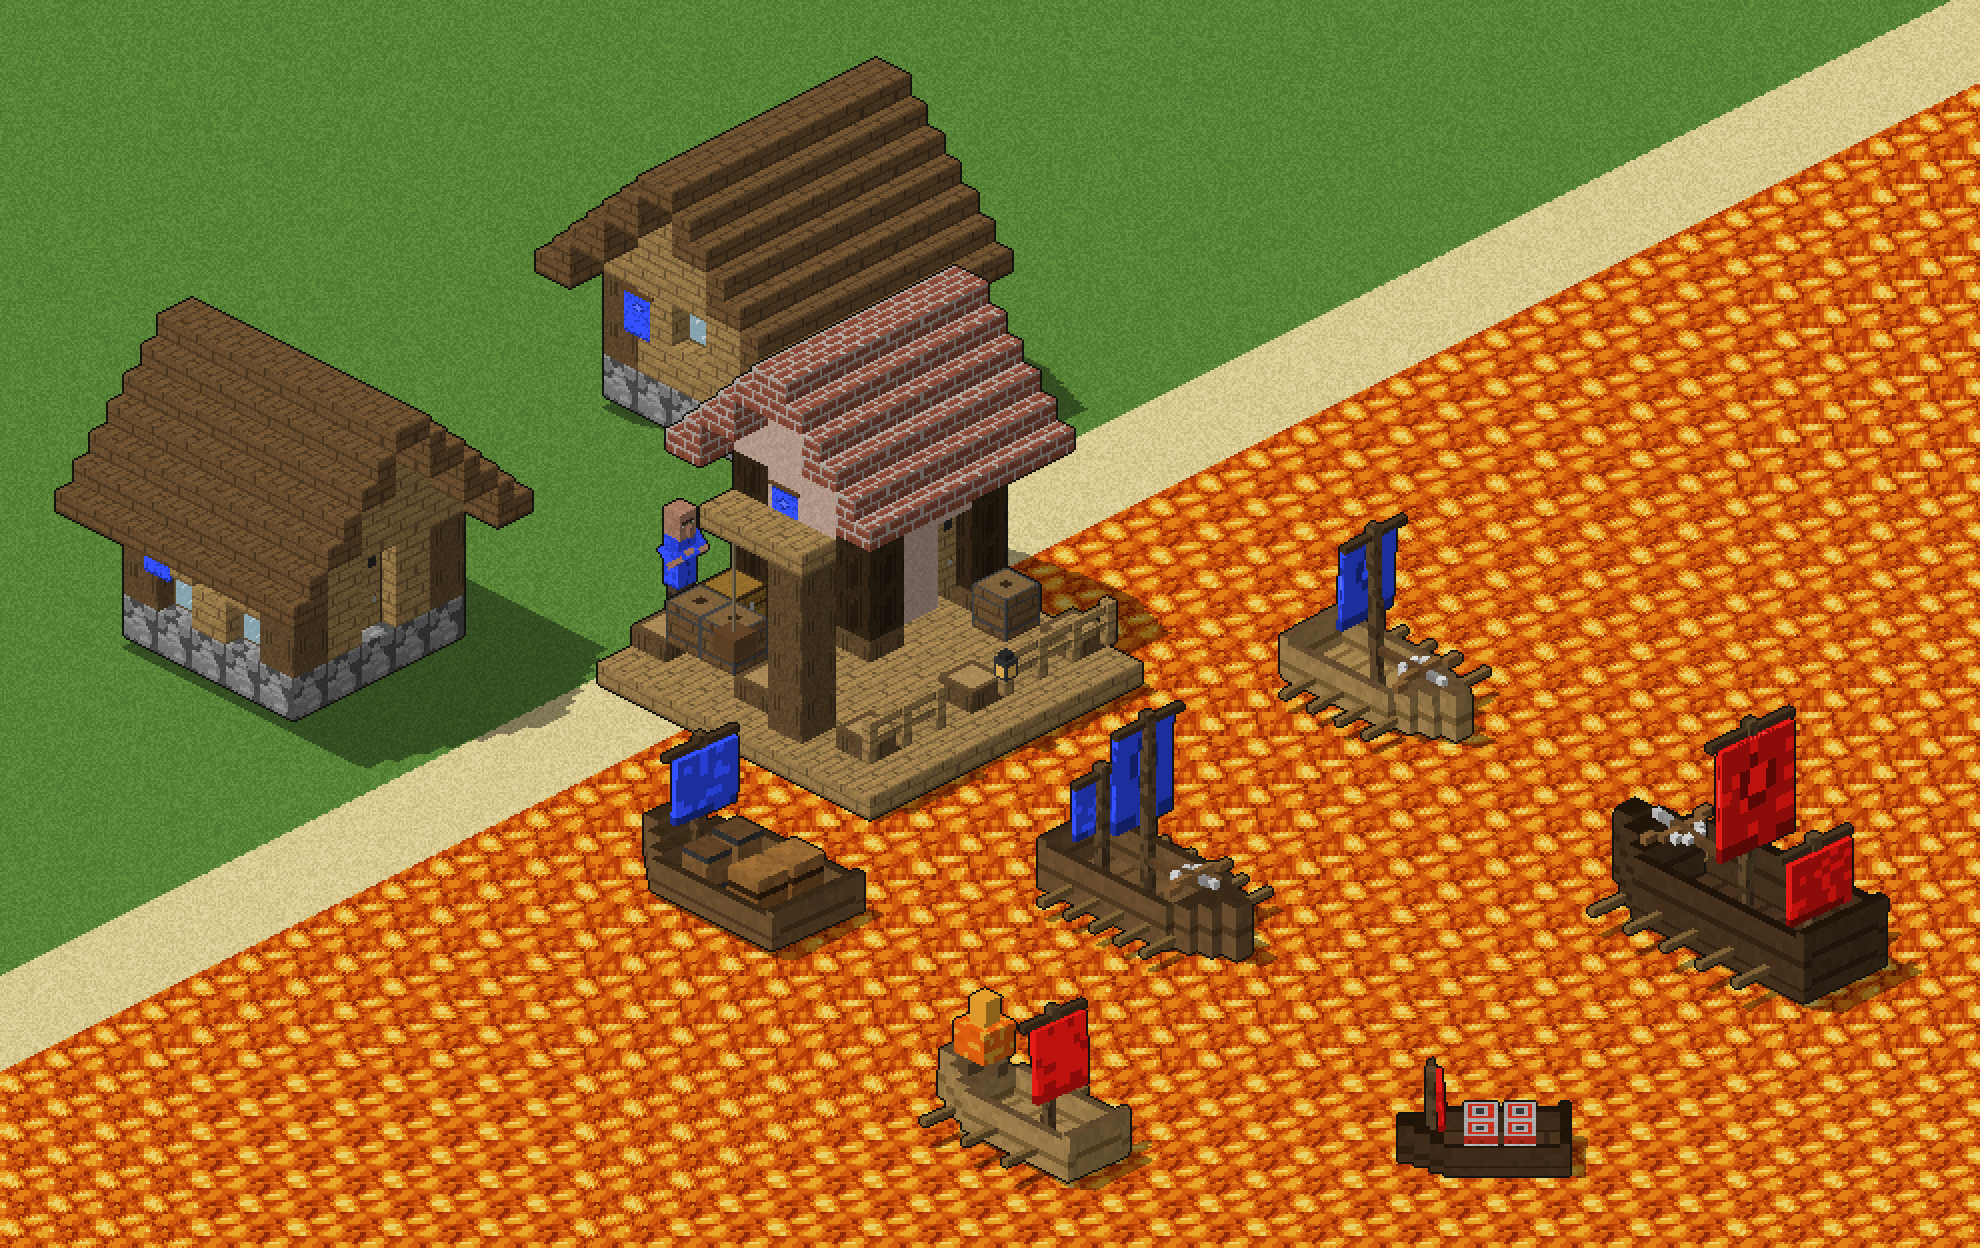
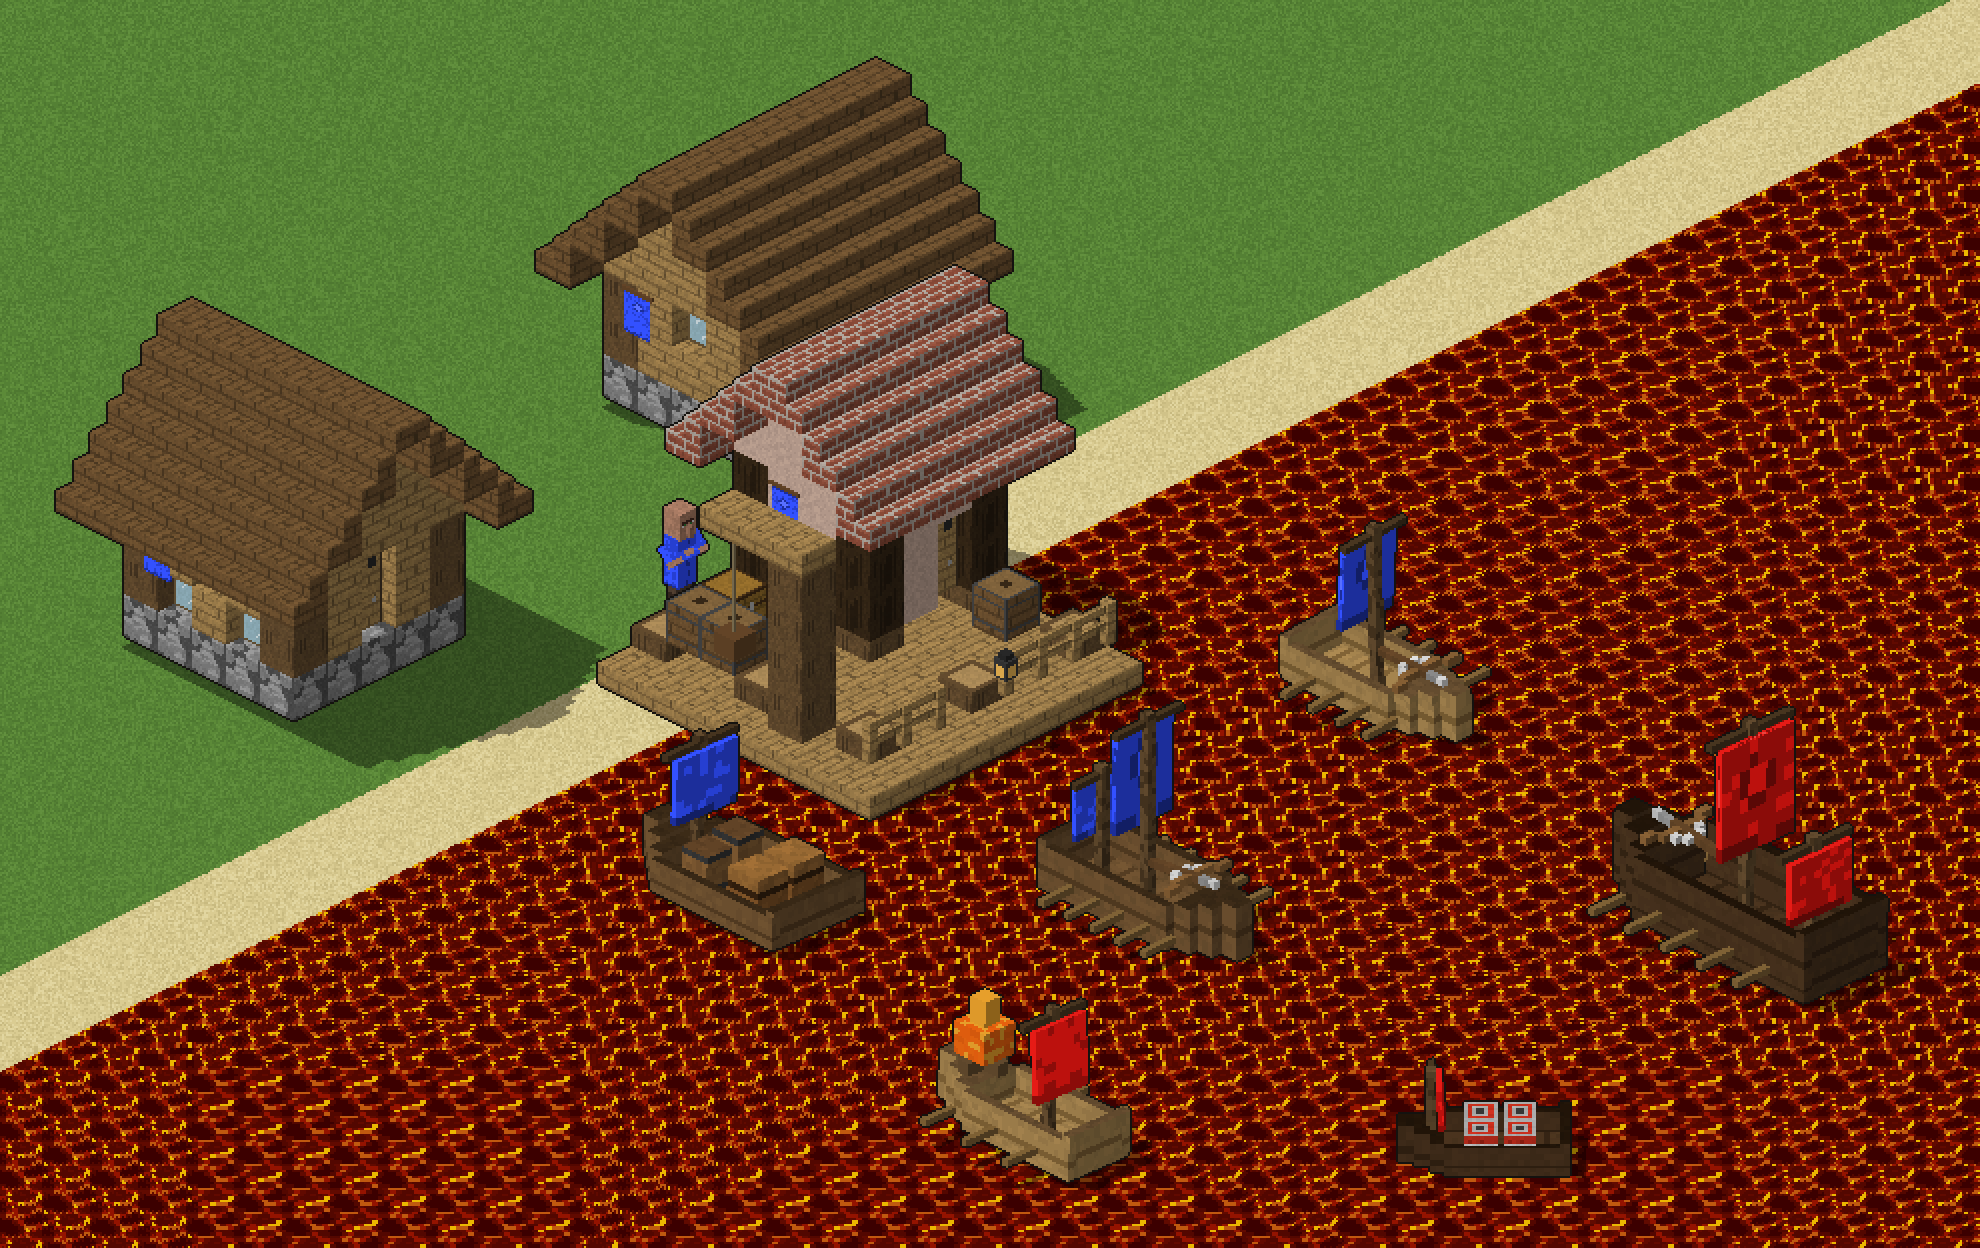
Make the lava darker: dark red crust with glowing cracks
The lava's bright orange and yellow blobs looked more like fire. It is now
plates of dark red crust with glowing cracks between them, orange round a
yellow-hot middle.

The game's palette has no red among its plain colours, so darker lava came
out brown. The texture now also uses the red and the yellow player's shades
as plain colours, as the giant red Pac-Man does: a plain pixel there keeps
its colour, and terrain has no owner anyway (Quantiser takes them as extra).
In the real build half the lava is the darkest red, (65, 0, 0).

diff --git a/tools/aom/lava.py b/tools/aom/lava.py
@@ -4,8 +4,11 @@ The game has no lava. Its terrain 15, "Old Water", is a leftover no map uses: it
 draws it with the Water's, `to_draw` 1), and every unit treats it exactly as it treats Water 3, the medium water:
 ships sail on it, fish and fish traps live in it, soldiers cannot walk on it. So it becomes the lava (`patch`):
 
-- its own texture, Minecraft's still lava (hot yellow blobs in orange, a darker crust between them), 2 blocks to a
-  tile like the farms, cut into the tile shapes of the Water's texture, which it was drawn with (`encode`);
+- its own texture, dark lava: plates of dark red crust with glowing cracks between them, orange round a yellow-hot
+  middle, 2 blocks to a tile like the farms, cut into the tile shapes of the Water's texture, which it was drawn with
+  (`encode`). The palette's plain colours have no red (they turn dark lava brown), so the red player's shades and the
+  yellow player's are used as plain colours too (`SHADES`), as the giant red Pac-Man's are: a plain pixel there keeps
+  its colour, and terrain has no owner anyway;
 - orange on the minimap, and blended into the ground around it the way the Water is;
 - Docks may be built on it. A Dock may only stand on Water or Shallows (its placement terrains) next to a beach,
   so its Shallows becomes the lava: no standard map has a Dock in shallow water (the fords are a tile wide).
@@ -37,7 +40,8 @@ from .textures import parse
 LAVA = 15  # "Old Water"
 MEDIUM_WATER = 23  # the terrain it must behave like
 WATER, SHALLOWS = 1, 4  # where a Dock may stand: (Water, Shallows) becomes (Water, lava)
-COLOURS = ("#9c2c08", "#c8420a", "#e2620e", "#f58a18", "#fdb52e", "#ffe070")  # crust to the hottest
+COLOURS = ("#410000", "#5a0800", "#690b00", "#a01500", "#d06010", "#ffc700")  # the crust, then a crack's glow
+SHADES = tuple(range(32, 40)) + tuple(range(64, 72))  # the red and the yellow player's colours, as plain colours
 MINIMAP = (226, 98, 14)
 MAP_NAME = "Team Lava Islands"
 MAP_FILE = MAP_NAME + ".rms"
@@ -46,20 +50,20 @@ MARK = "Age of Minecraft"  # in the map's first lines: --restore removes only a 
 
 # --------------------------------------------------------------------------- the look
 
-def lava_texture(seed: str = "lava", blobs: int = 6) -> np.ndarray:
-    """16x16 still lava: a hot blob round each of a few points, bright in the middle, a darker crust where blobs
-    meet. The distances wrap round the block's edges, so the blocks join up."""
+def lava_texture(seed: str = "lava", plates: int = 5) -> np.ndarray:
+    """16x16 lava: a plate of dark crust round each of a few points, cracked where plates meet, the cracks glowing red
+    to yellow-hot. The distances wrap round the block's edges, so the blocks join up."""
     rng = np.random.default_rng(zlib.crc32(seed.encode()))
-    points = rng.uniform(0, 16, (blobs, 2))
+    points = rng.uniform(0, 16, (plates, 2))
     yy, xx = np.mgrid[0:16, 0:16] + 0.5
     dist = []
     for py, px in points:
         dy, dx = np.abs(yy - py), np.abs(xx - px)
         dist.append(np.hypot(np.minimum(dy, 16 - dy), np.minimum(dx, 16 - dx)))
     near = np.sort(np.array(dist), axis=0)
-    edge = near[1] - near[0]  # 0 where two blobs meet
-    heat = (edge / edge.max()) ** 0.7 + rng.normal(0, 0.05, edge.shape)
-    return np.array([parse(c) for c in COLOURS])[np.digitize(heat, [0.1, 0.28, 0.48, 0.68, 0.86])]
+    edge = near[1] - near[0]  # 0 where two plates meet
+    heat = 1 - (edge / edge.max()) ** 0.6 + rng.normal(0, 0.06, edge.shape)  # 1 on the cracks
+    return np.array([parse(c) for c in COLOURS])[np.digitize(heat, [0.35, 0.55, 0.7, 0.8, 0.9])]
 
 
 @lru_cache(maxsize=None)
@@ -77,8 +81,9 @@ def texture(per_tile: int = farmland.PER_TILE) -> tuple[Frame, tuple[int, int]]:
 
 
 def encode(water: bytes, quant: Quantiser) -> bytes:
-    """The lava's texture: the Water's SLP `water`, every tile redrawn as lava."""
-    return slp.encode(farmland.cut(*texture(), water, quant, "the lava"), props=slp.frame_props(water))
+    """The lava's texture: the Water's SLP `water`, every tile redrawn as lava (in `quant`'s palette)."""
+    reds = Quantiser(quant.palette, SHADES)
+    return slp.encode(farmland.cut(*texture(), water, reds, "the lava"), props=slp.frame_props(water))
 
 
 def ground(w: int, h: int, x0: int = 0, y0: int = 0) -> np.ndarray:

diff --git a/tools/aom/palette.py b/tools/aom/palette.py
@@ -36,9 +36,11 @@ def _lab(rgb: np.ndarray) -> np.ndarray:
 
 
 class Quantiser:
-    def __init__(self, palette: np.ndarray):
+    def __init__(self, palette: np.ndarray, extra: tuple[int, ...] = ()):
+        """`extra`: player-colour indices allowed as plain colours too (in an SLP a plain pixel there keeps its colour
+        whoever owns the sprite)."""
         self.palette = palette
-        banned = {i for r in PLAYER_RANGES for i in r}
+        banned = {i for r in PLAYER_RANGES for i in r} - set(extra)
         self.allowed = np.array([i for i in range(len(palette)) if i not in banned])
         self.lab = _lab(palette[self.allowed])
         self.cache: dict[int, int] = {}

diff --git a/tools/tests/test_export.py b/tools/tests/test_export.py
@@ -949,6 +949,9 @@ def test_lava_map():
     assert "Age of Minecraft" in text.splitlines()[1] and text.encode("latin-1")
     tex = lava.lava_texture()
     assert tex.shape == (16, 16, 5) and len(np.unique(tex[..., 0])) >= 4
+    pal = parse_jasc(fake_palette())  # the red player's shades as plain colours, for the lava only
+    assert Quantiser(pal, lava.SHADES).indices(pal[32:33].astype(int))[0] == 32
+    assert Quantiser(pal).indices(pal[32:33].astype(int))[0] != 32
     assert lava.ground(50, 30).shape == (30, 50, 4) and (lava.ground(50, 30)[..., 3] == 255).all()
 
 

diff --git a/docs/DESIGN.md b/docs/DESIGN.md
@@ -153,10 +153,14 @@ The game has no lava, but it has a leftover terrain no map uses: terrain 15,
 "Old Water". It has no texture of its own (the game draws it with the
 Water's), and every unit treats it exactly as the medium water: ships sail on
 it, Fish Traps work in it, soldiers cannot walk on it. `lava.py` makes it the
-lava, in place in the `.dat`: its own texture (Minecraft's still lava, hot
-yellow blobs in orange with a darker crust between them, 2 blocks to a tile
-like the farms, cut into the Water texture's tile shapes), orange on the
-minimap, and blended into the ground around it the way the Water is. A Dock
+lava, in place in the `.dat`: its own texture (dark lava, plates of dark red
+crust with glowing cracks between them, orange round a yellow-hot middle, 2
+blocks to a tile like the farms, cut into the Water texture's tile shapes),
+orange on the minimap, and blended into the ground around it the way the
+Water is. The game's palette has no red among its plain colours (dark lava
+came out brown), so the lava also uses the red and the yellow player's
+shades, as plain colours that stay the same in every game, as the giant red
+Pac-Man does. A Dock
 may only stand on Water or Shallows next to a beach, so the Shallows in that
 rule becomes the lava (no standard map has a Dock in a ford).
 

diff --git a/docs/INSTALL.md b/docs/INSTALL.md
@@ -182,8 +182,8 @@ game's own language file: hovering over its button there says only "Create
 Dragon".
 
 **Team Lava Islands.** A new map, like Team Islands but with a sea of
-Minecraft lava instead of water: each team shares an island, and the lava
-around it shows orange on the minimap. In the game setup, set the map style
+lava instead of water (dark red crust with glowing cracks): each team shares
+an island, and the lava around it shows orange on the minimap. In the game setup, set the map style
 to **Custom** and pick **Team Lava Islands**. Ships sail on the lava as they
 would on water: build your Docks on the lava by your island's beach (every
 island has one, all round), then Transport Ships, warships and Fish Traps.
